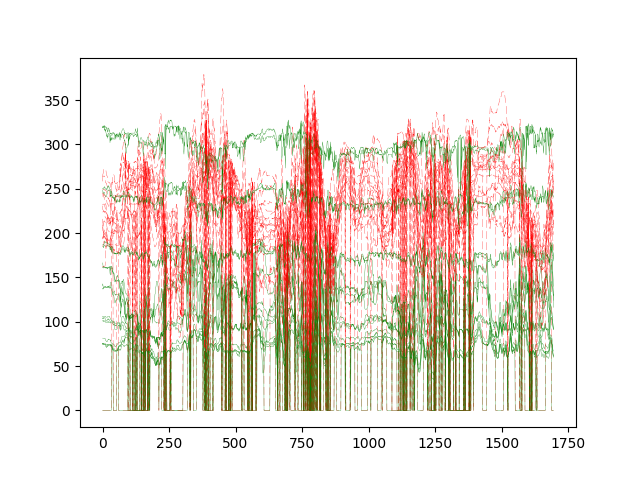
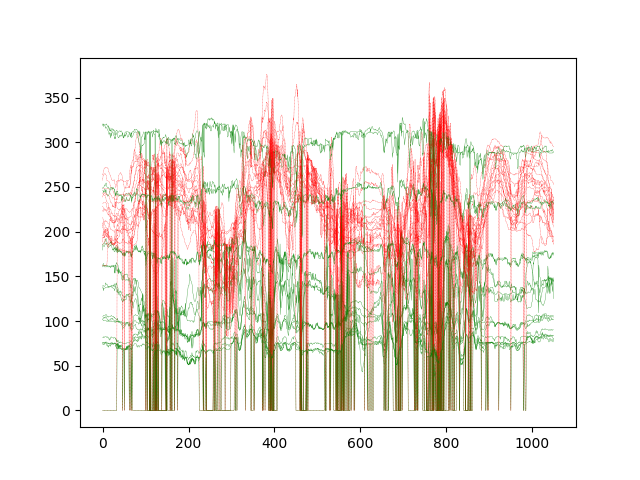
animation interpolation

diff --git a/src/openpose_3dpose_sandbox.py b/src/openpose_3dpose_sandbox.py
@@ -12,6 +12,11 @@ from predict_3dpose import create_model
 import cv2
 import imageio
 import logging
+import scipy as sp
+from pprint import pprint
+from scipy.interpolate import interp1d
+from scipy.interpolate import UnivariateSpline
+
 FLAGS = tf.app.flags.FLAGS
 
 order = [15, 12, 25, 26, 27, 17, 18, 19, 1, 2, 3, 6, 7, 8]
@@ -153,20 +158,70 @@ def read_openpose_json(smooth=True, *args):
             # build new array of joint x and y value
             frames_joint_median[x] = x_med 
             frames_joint_median[x+1] = y_med 
-
+		
 
         smoothed[frame] = frames_joint_median
 
-    # return frames cache incl. smooth 18 joints (x,y)
     return smoothed
 
+
 def main(_):
+    
     smoothed = read_openpose_json()
     logger.info("reading and smoothing done. start feeding 3d-pose-baseline")
     plt.figure(2)
     smooth_curves_plot = show_anim_curves(smoothed, plt)
     pngName = 'png/smooth_plot.png'
     smooth_curves_plot.savefig(pngName)
+    
+    if FLAGS.interpolation:
+        framerange = len( smoothed.keys() )
+        joint_rows = 36
+        array = np.concatenate(list(smoothed.values()))
+        array_reshaped = np.reshape(array, (framerange, joint_rows) )
+    
+        multiplier = 0.1
+        multiplier_inv = 1/multiplier
+        out_array = np.array([])
+        for row in range(joint_rows):
+            x = []
+            for frame in range(framerange):
+                x.append( array_reshaped[frame, row] )
+            
+            frame = range( framerange )
+            frame_resampled = np.arange(0, framerange, multiplier)
+            spl = UnivariateSpline(frame, x, k=3)
+            min_x, max_x = min(x), max(x)
+            smooth_fac = max_x - min_x
+            smooth_fac = smooth_fac * 125
+            spl.set_smoothing_factor( float(smooth_fac) )
+            xnew = spl(frame_resampled)
+            
+            out_array = np.append(out_array, xnew)
+    
+        logger.info("done interpolating")
+    
+        a = np.array([])
+        for frame in range( int( framerange * multiplier_inv ) ):
+            jnt_array = []
+            #print(frame)
+            for jnt in range(joint_rows):
+                jnt_array.append( out_array[ jnt * int(framerange * multiplier_inv) + frame] )
+            a = np.append(a, jnt_array)
+        
+        a = np.reshape(a, (int(framerange * multiplier_inv), joint_rows))
+        out_array = a
+    
+        interpolate_smoothed = {}
+        for frame in range( int(framerange * multiplier_inv) ):
+            interpolate_smoothed[frame] = list( out_array[frame] )
+        
+        plt.figure(3)
+        smoothed = interpolate_smoothed
+        interpolate_curves_plot = show_anim_curves(smoothed, plt)
+        pngName = 'png/interpolate_plot.png'
+        interpolate_curves_plot.savefig(pngName)
+
 
     enc_in = np.zeros((1, 64))
     enc_in[0] = [0 for i in range(64)]
@@ -232,22 +287,22 @@ def main(_):
             all_poses_3d.append( poses3d )
             enc_in, poses3d = map( np.vstack, [enc_in, all_poses_3d] )
             subplot_idx, exidx = 1, 1
-            max = 0
-            min = 10000
+            _max = 0
+            _min = 10000
 
             for i in range(poses3d.shape[0]):
                 for j in range(32):
                     tmp = poses3d[i][j * 3 + 2]
                     poses3d[i][j * 3 + 2] = poses3d[i][j * 3 + 1]
                     poses3d[i][j * 3 + 1] = tmp
-                    if poses3d[i][j * 3 + 2] > max:
-                        max = poses3d[i][j * 3 + 2]
-                    if poses3d[i][j * 3 + 2] < min:
-                        min = poses3d[i][j * 3 + 2]
+                    if poses3d[i][j * 3 + 2] > _max:
+                        _max = poses3d[i][j * 3 + 2]
+                    if poses3d[i][j * 3 + 2] < _min:
+                        _min = poses3d[i][j * 3 + 2]
 
             for i in range(poses3d.shape[0]):
                 for j in range(32):
-                    poses3d[i][j * 3 + 2] = max - poses3d[i][j * 3 + 2] + min
+                    poses3d[i][j * 3 + 2] = _max - poses3d[i][j * 3 + 2] + _min
                     poses3d[i][j * 3] += (spine_x - 630)
                     poses3d[i][j * 3 + 2] += (500 - spine_y)
 
@@ -262,14 +317,15 @@ def main(_):
             logger.debug(poses3d)
             viz.show3Dpose(p3d, ax, lcolor="#9b59b6", rcolor="#2ecc71")
 
-            pngName = 'png/test_{0}.png'.format(str(frame))
-            plt.savefig(pngName)
+            pngName = 'png/test_{0}.png'.format(str(frame.zfill(5)))
+            if FLAGS.write_output_img:
+                plt.savefig(pngName)
             png_lib.append(imageio.imread(pngName))
             before_pose = poses3d
 
-
-    logger.info("creating Gif png/movie_smoothing.gif, please Wait!")
-    imageio.mimsave('png/movie_smoothing.gif', png_lib, fps=FLAGS.gif_fps)
+    if FLAGS.write_gif:
+        logger.info("creating Gif png/movie_smoothing.gif, please Wait!")
+        imageio.mimsave('png/movie_smoothing.gif', png_lib, fps=FLAGS.gif_fps)
     logger.info("Done!".format(pngName))
 
 

diff --git a/src/predict_3dpose.py b/src/predict_3dpose.py
@@ -53,6 +53,9 @@ tf.app.flags.DEFINE_string("train_dir", "experiments", "Training directory.")
 
 # openpose
 tf.app.flags.DEFINE_string("openpose", "openpose_output", "openpose output Data directory")
+tf.app.flags.DEFINE_boolean("interpolation", True, "interpolate openpose json")
+tf.app.flags.DEFINE_boolean("write_output_img", False, "write predicted frame png image")
+tf.app.flags.DEFINE_boolean("write_gif", False, "write final anim gif")
 tf.app.flags.DEFINE_integer("gif_fps", 30, "output gif framerate")
 tf.app.flags.DEFINE_integer("verbose", 2, "0:Error, 1:Warning, 2:INFO*(default), 3:debug")
 

diff --git a/README.md b/README.md
@@ -67,12 +67,15 @@ This will produce a visualization similar to this:
 
 `python src/openpose_3dpose_sandbox.py --camera_frame --residual --batch_norm --dropout 0.5 --max_norm --evaluateActionWise --use_sh --epochs 200 --load 4874200 --openpose /path/to/openpose/output/json_directory --gif_fps 30` , optional also `--verbose 3` for debug,
 
-smoothing curves by median value
+frame drops
 
 ![Fps drops](/imgs/dirty_plot.png?raw=1)
 
-![Smoothing Fps](/imgs/smooth_plot.png?raw=1)
+holding
+![holding](/imgs/smooth_plot.png?raw=1)
 
+interpolation
+![interpolate](/imgs/interpolate_plot.png?raw=1)
 
 ### Training
 
